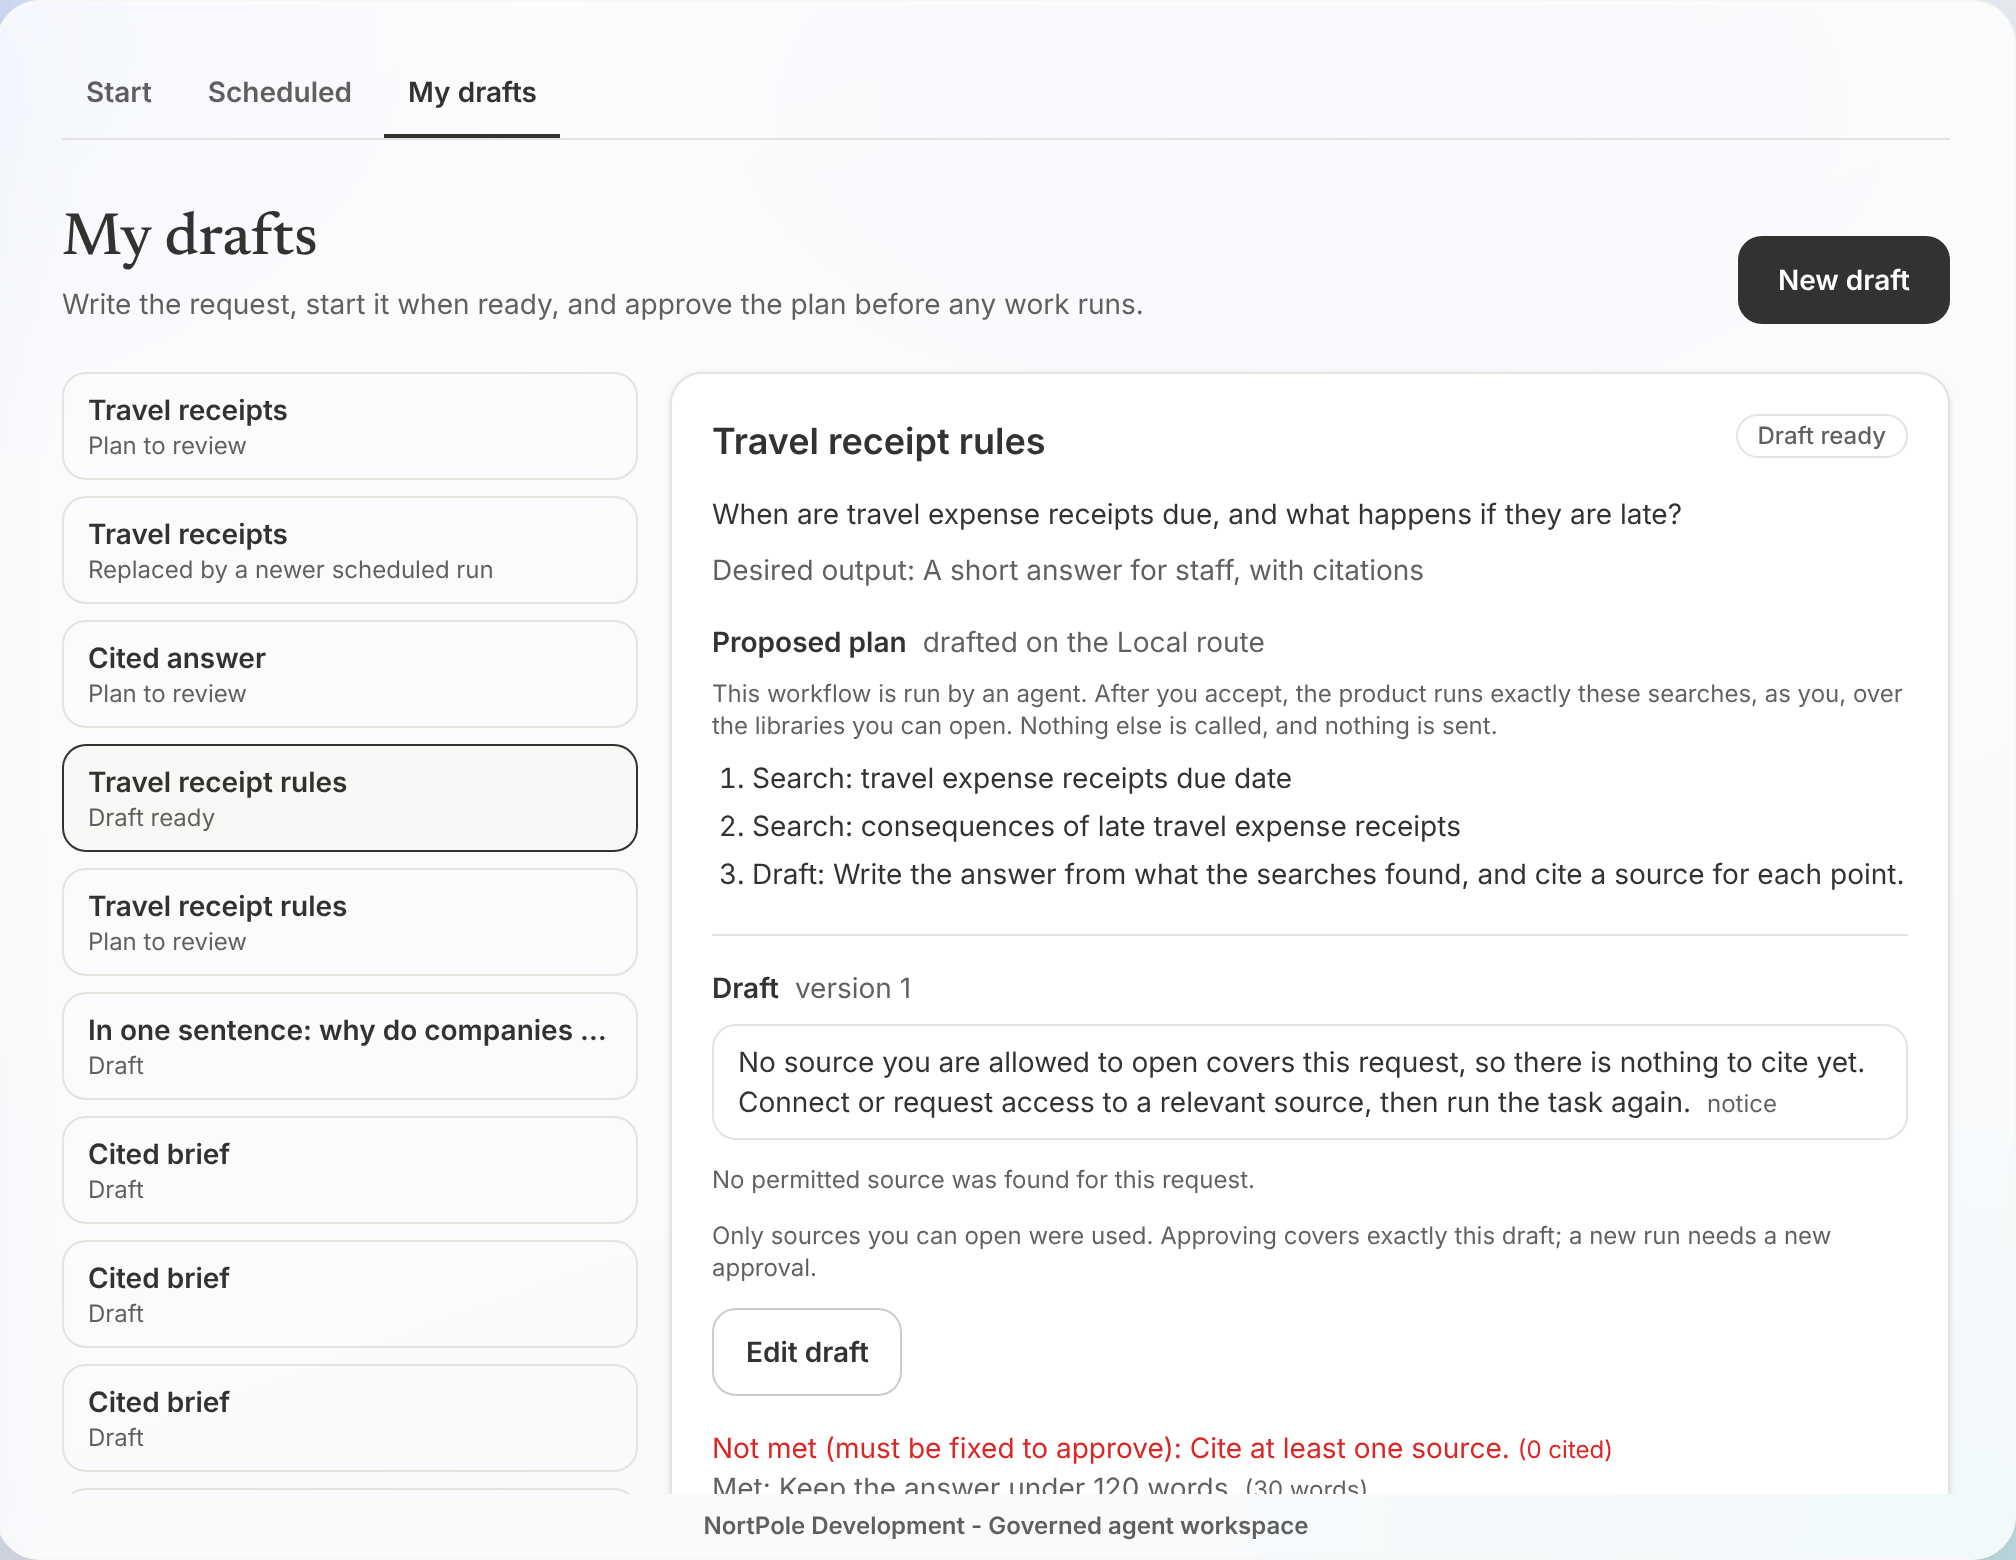
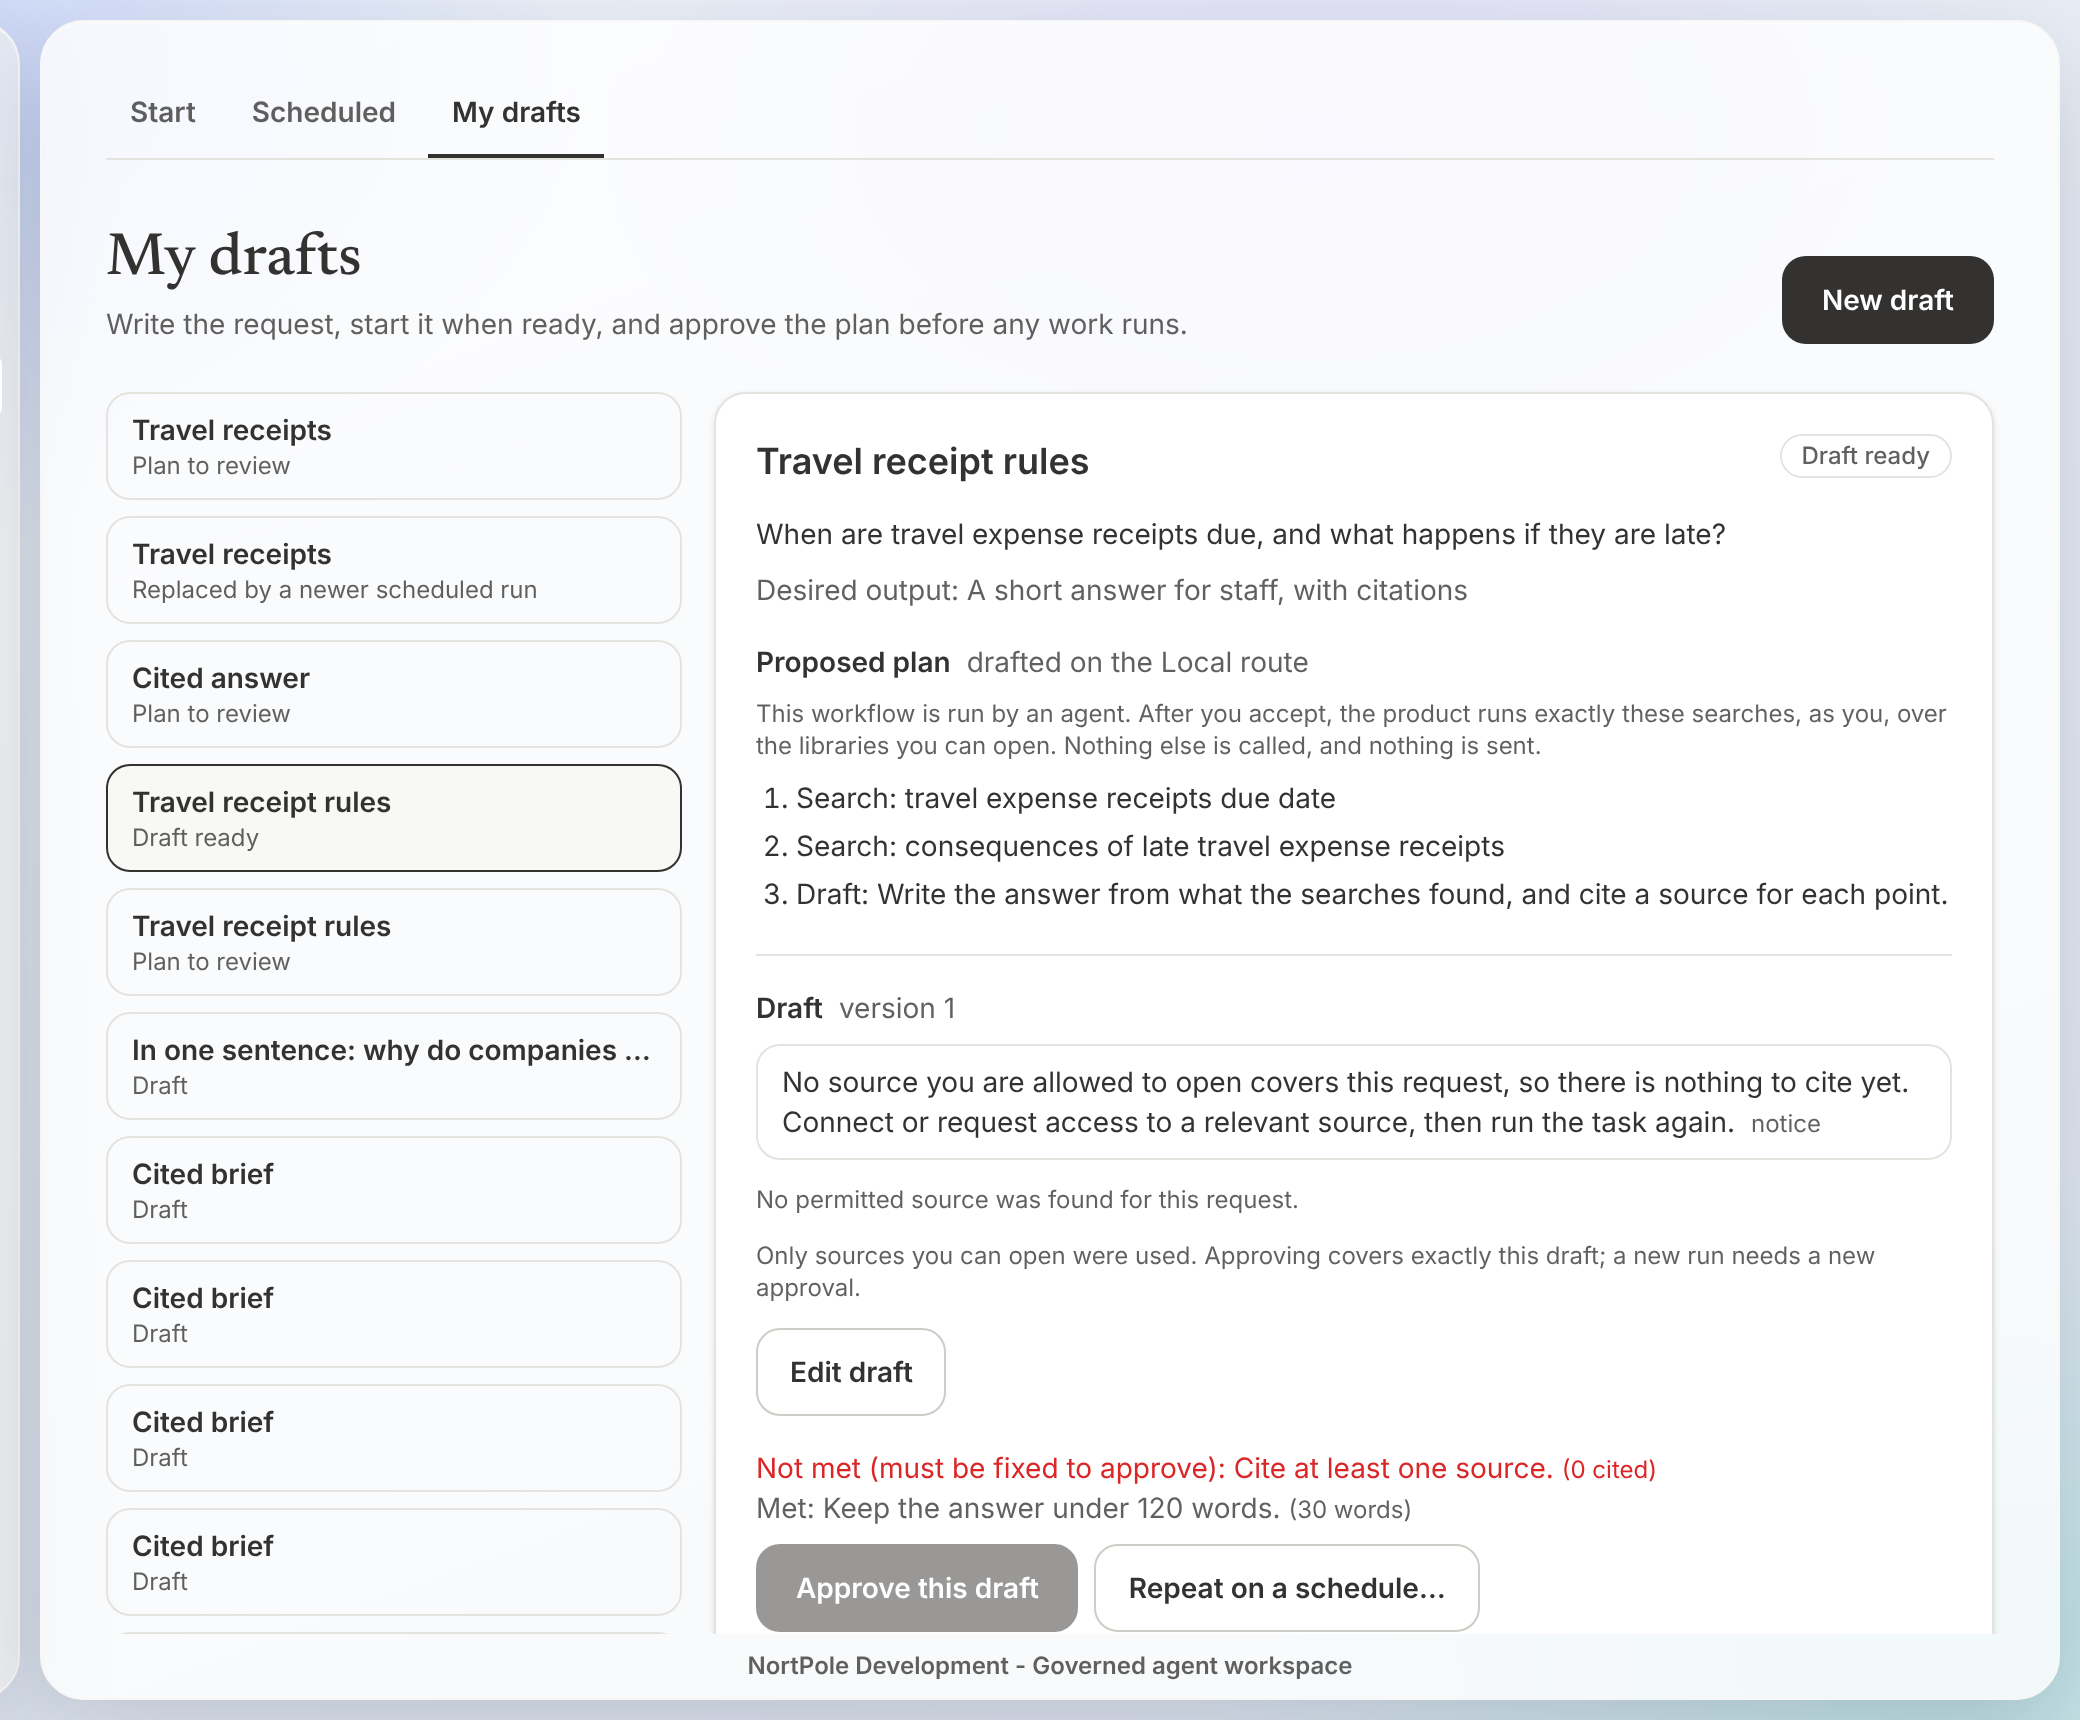
README: current status and features, retaken screenshots (#121)
* README: bring status and features up to date

Claude-Session: https://claude.ai/code/session_01JwVSXEmxpPaif8GsjUPV25

* README: retake all screenshots

Claude-Session: https://claude.ai/code/session_01JwVSXEmxpPaif8GsjUPV25

---------

diff --git a/README.md b/README.md
@@ -33,7 +33,7 @@ One place to ask, search and get work done over your company's knowledge:
 | | Permission-aware knowledge | Answers only use documents each person may open in the source system; Google Drive sharing is applied per document. |
 | | Audit log | A hash-chained, tamper-evident record of refusals, approvals, sends, policy changes and exports, with integrity checks, a savable head, and export. |
 | **Control** | Route policy and redaction | Mark each model as local, private or cloud, decide which class of data may go where, and redact sensitive patterns before the cloud. Blocked requests fail before anything is sent. |
-| | Approvals | Accept the plan before work runs and approve one exact draft before anything leaves; optional second approver for sends and two-administrator rules for sensitive changes, all in one queue. |
+| | Approvals | Accept the plan before work runs and approve one exact draft before anything leaves; optional second approver for sends, and optional two-administrator rules for route policy, retention, packs, send destinations and the tool catalog, all in one queue. |
 | | Tool governance | A catalog of what assistants may use; outside tools (MCP, OpenAPI) stay off until approved, with pinned definitions that stop the tool if they change. |
 | | Retention and legal hold | Set how long records are kept and hold them when needed. |
 | **Work** | Governed workflows | Ready-made, versioned workflows: plan, gather sources, cited draft, review rules, approve, export or send. |
@@ -41,7 +41,7 @@ One place to ask, search and get work done over your company's knowledge:
 | | Workflow agents | Agents plan their searches first, run as you over the sources you can open, and can never send anything. |
 | | Scheduled workflows | Recurring runs prepare the plan and wait in your Inbox; nothing continues without your yes, and a schedule pauses itself if plans go unaccepted. |
 | | Inbox | One place for plans to approve, drafts to review and updates. |
-| | Sources catalog | Connectors, Plugins, Skills and Discover: search a catalog of services, install one or sign in with your own account, and request what an administrator has not allowed yet. Each integration is declared as signed data with exact hosts; writes always start as "needs approval". |
+| | Sources catalog | Connectors, Plugins, Skills and Discover: search a catalog of services, install one or sign in with your own account, and request what an administrator has not allowed yet. Each integration is declared as signed data with exact hosts; writes always start as "needs approval". Chat can use an installed integration's read actions; for a write, the assistant can only propose it, and it waits in your Inbox until you approve exactly what will be sent. |
 | | Your own skills | Add instructions your chats follow, or add the ones an integration suggests with one click. |
 | **Insight** | Quality and cost | Draft and approval rates, unsupported-claim share, evaluation results per model, scheduled runs, and tokens and estimated cost per route. |
 
@@ -90,10 +90,10 @@ NortPole starts from the other end:
 ## What administrators control
 
 - **Model routes and data classes.** Mark each model as local, private or cloud; decide which data may go where; turn on redaction per route. A blocked request fails before anything is sent.
-- **Signed workflow packs.** Workflows ship as signed, versioned packs that run only on models they passed evaluation on, with review rules and house style built in. A Studio form lets administrators build their own.
+- **Signed workflow packs.** Workflows ship as signed, versioned packs that run only on models they passed evaluation on, with review rules and house style built in. A pack belongs to the signer of its newest version, so another signer cannot take it over without an administrator's approval. A Studio form lets administrators build their own.
 - **Integrations.** Allow, require approval for, or block each integration or whole category; see how many people installed and connected each; opening write actions to everyone needs a confirmation. Stored secrets are sealed with your key.
 - **Tools and outside systems.** A tool catalog decides what chat assistants may use; outside tools (MCP, OpenAPI) are off until approved, their definition is pinned, and a changed definition stops the tool until approved again.
-- **Approvals in one place.** Sends that need a second approver, changes that need a second administrator, requests from people, tool definitions.
+- **Approvals in one place.** Sends that need a second approver, changes that need a second administrator (route policy, retention, packs, send destinations, the tool catalog), requests from people, tool definitions.
 - **Scheduling, retention and audit.** Who may schedule; how long records are kept and a legal hold; audit-log integrity checks, a head you can save off the machine and compare later, and export.
 - **Quality and cost.** Draft and approval rates, unsupported-claim share, evaluation results per model, scheduled-run counts, and tokens and estimated cost per route.
 
@@ -131,11 +131,11 @@ flowchart LR
 
 ## Status and roadmap
 
-**Built and tested (sandbox, local models):** workspace and admin console, reviewed workflows with plans and approvals, workflow agents, scheduled workflows, signed packs and Studio, route policy and redaction, tool catalog and outside-tool approval, second approver and two-administrator rules, audit log with integrity checks, retention and legal hold, Discover and requests, Inbox, Quality, and Google Drive permission sync, an integrations catalog with per-person accounts, approvals, sealed secrets, OAuth sign-in (fake provider only) and personal skills.
+**Built and tested (sandbox, local models):** workspace and admin console, reviewed workflows with plans and approvals, workflow agents, scheduled workflows, signed packs and Studio, route policy and redaction, tool catalog and outside-tool approval, second approver and two-administrator rules, audit log with integrity checks, retention and legal hold, Discover and requests, Inbox, Quality, and Google Drive permission sync, an integrations catalog with per-person accounts, approvals, sealed secrets, OAuth sign-in (fake provider only), chat use of installed integrations (reads directly, writes as proposals approved in the Inbox) and personal skills.
 
 **Next:** a live Google Drive pilot with a search index, knowledge domains (open or restricted areas with verified documents), event-triggered workflows, and hardening for a first customer deployment (identity provider and MFA, hosting, a cloud model route).
 
-**Not yet:** a production deployment, single sign-on, and a third-party security review. All results so far come from sandbox testing. The integration definitions (13 so far) were written from each vendor's published API and are **not yet verified** against the vendors or called with real accounts, OAuth sign-in has only been tried against a fake provider, and an assistant cannot yet call an installed integration from chat.
+**Not yet:** a production deployment, single sign-on, and a third-party security review. All results so far come from sandbox testing. Of the 13 integration definitions, 8 were checked against the vendors' API reference and one (Wikipedia's page summary) was sent to the live service; the other 4 (Airtable, Dropbox, Webflow, HubSpot) are unchecked, and none has been used with a real account. OAuth sign-in has only been tried against a fake provider. Chat use of integrations has been tested with a stand-in model, not a real one. The two-administrator rule does not yet cover installing a pack, and workflows cannot call integrations yet.
 
 The full, honest list lives in the [pending-work checklist](docs/07-implementation/NortPole_Pending-Work-Checklist.md), and what each piece checked is in the [review log](docs/REVIEW.md).
 

diff --git a/docs/REVIEW.md b/docs/REVIEW.md
@@ -486,3 +486,11 @@ The 31 routes that did not load in the first browser walk were walked again in b
 ### Inherited-code clean-up, 2026-11-17
 
 Web: removed 194 unused imports and variables across 119 inherited files (unused imports, dead helper functions and constants, unused destructured props; unused callback parameters were prefixed with an underscore). The type check (excluding test files) passes before and after, and with `--noUnusedLocals` four findings remain on purpose (a never-read class field twice, an `_exhaustive` never-check idiom, and one more class field). The `/admin/agents` table warning is fixed: the drag-and-drop context moved from inside the table body to around the table, so its hidden divs are no longer inside a `<table>`; the page loads without console errors. Backend: the 14 "failing" unit tests were not broken, they need the default settings (vector search on, Redis cache, tokenizer download); `make core-test` now runs with those and the whole `tests/unit/nortpole` tree passes (14,685). Checked in a browser: 11 touched pages load with no errors. Not done: web test files do not type-check because their setup folder (`@tests/setup`) is not in the repo, so no web unit tests were run; drag-and-drop reordering of agents was not exercised by hand; the repo's `oxlint` run fails because its i18n plugin file is missing.
+
+### README brought up to date, 2026-11-17
+
+The README still said an assistant cannot call an installed integration from chat and that none of the integration definitions were checked. It now says chat reads directly and proposes writes for approval in the Inbox, lists which changes can need a second administrator, mentions pack ownership, and gives the real verification state (8 of 13 checked against the vendors' reference, 1 sent live, 4 unchecked). Not done: the screenshots other than Discover were not retaken (Approvals and Tools have changed slightly); they were not checked against the current screens.
+
+### README screenshots retaken, 2026-11-17
+
+All 11 README images were retaken from the running sandbox as an administrator (workspace, workflows, draft review, Inbox, Scheduled, Discover, Audit log, Approvals, Tools, Route policy, Quality). Approvals now shows the five second-administrator rules; Discover shows the 13 integrations with their logos; Tools shows the current wording. The sandbox's own data appears in them (mock model routes, test accounts such as admin@example.com and generated test addresses in the audit log). Not done: the images were not compared pixel by pixel with the old ones, and the audit-log shot starts below the page heading.
